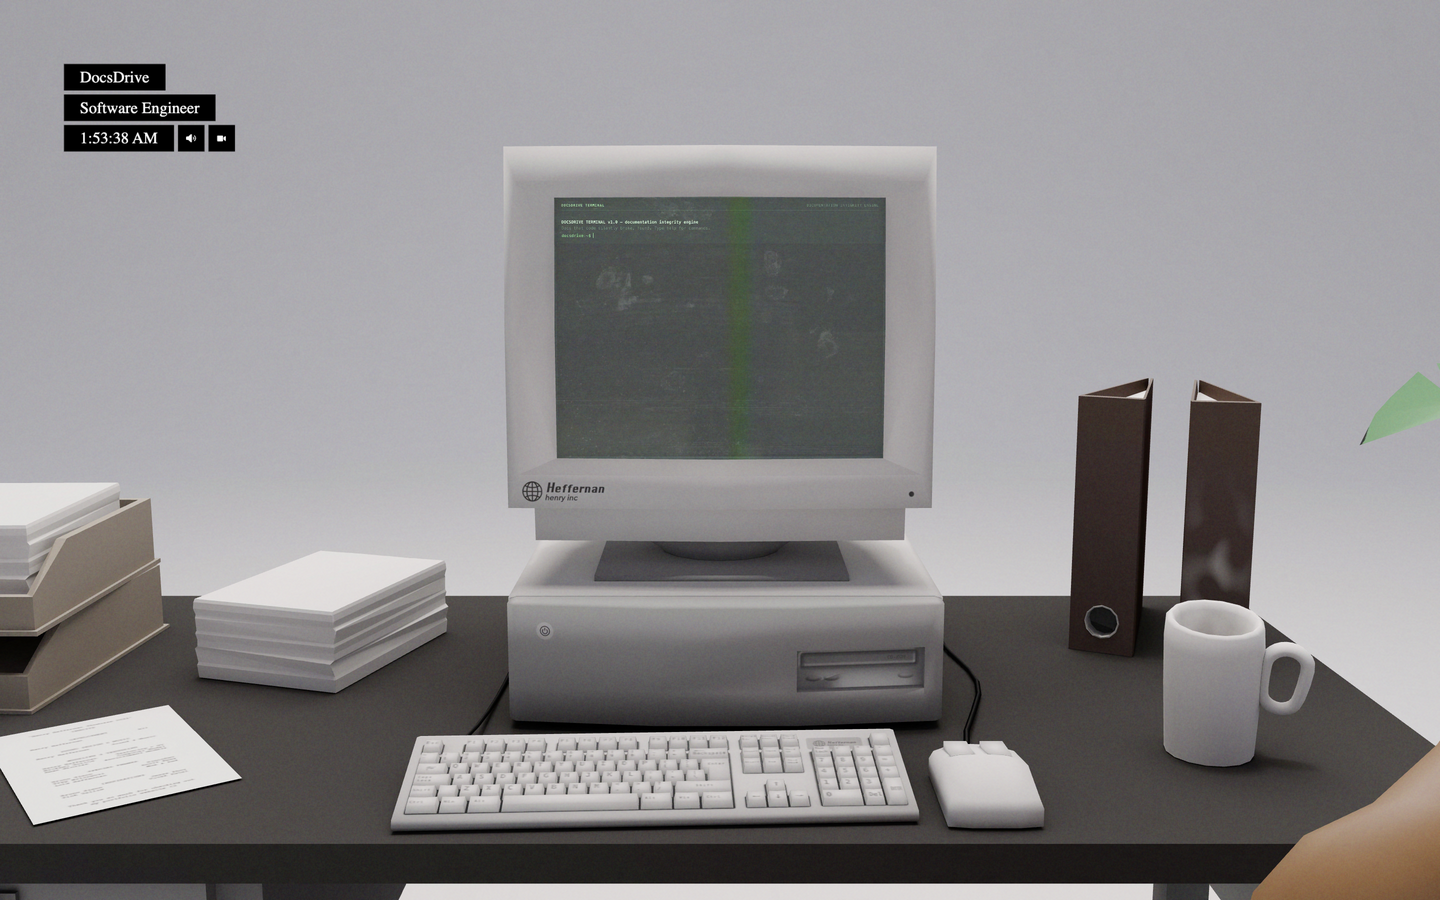
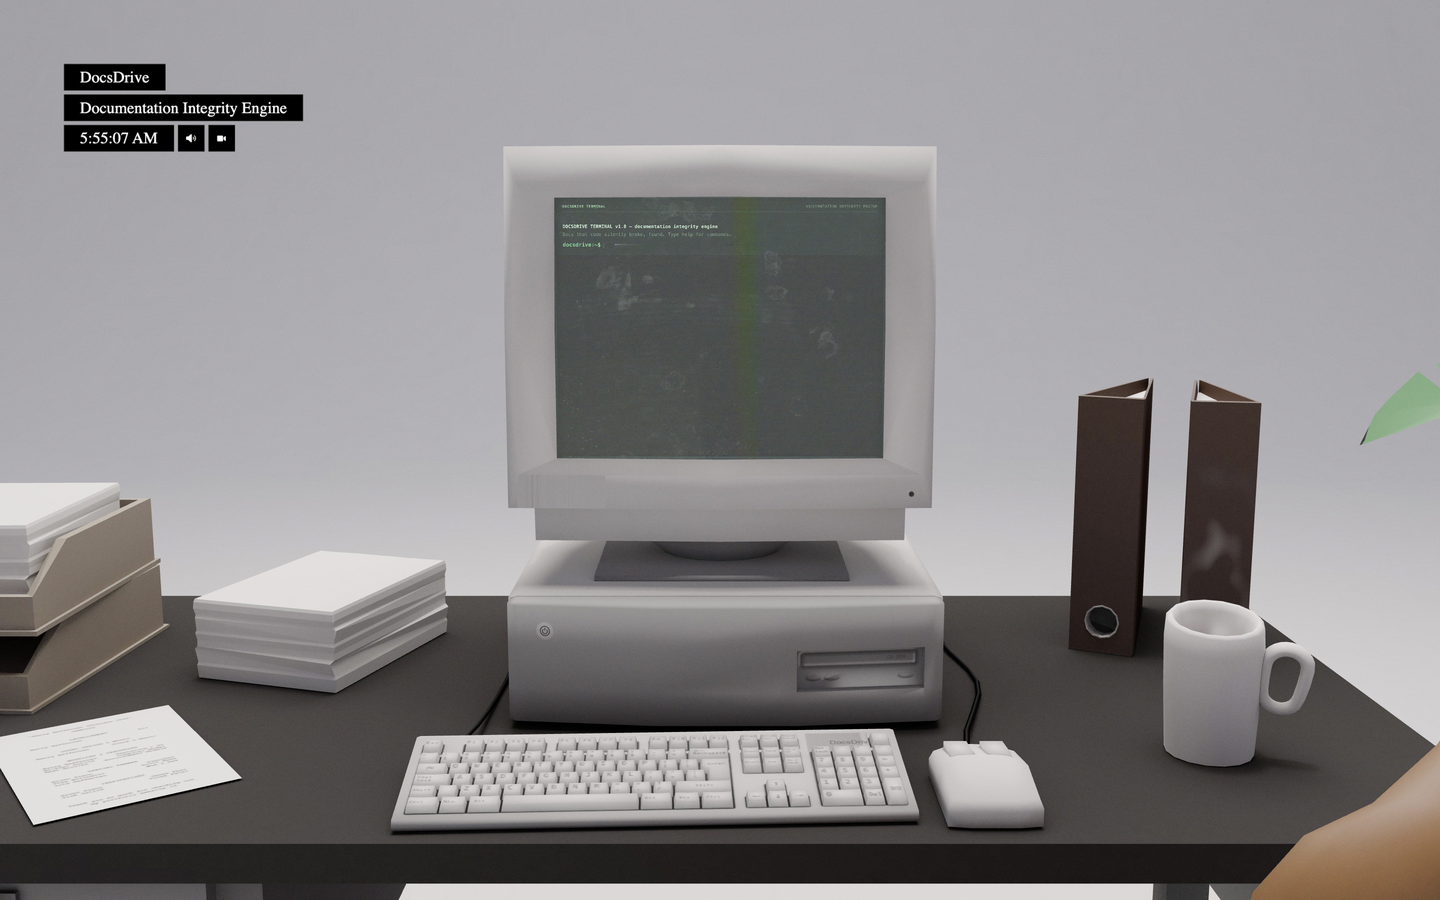
Increase terminal font size inside the CRT monitor
- Main terminal output: clamp(18px, 1.55vw, 20px)
- Prompt and input: clamp(19px, 1.6vw, 21px)
- Intro text: clamp(17px, 1.4vw, 18px) via tl-intro class
- Header/status labels: clamp(13px, 1.05vw, 15px)
- Line-height 1.5, 3px spacing between output lines
- Brighter phosphor greens for contrast, scanlines preserved
- Verified inside the CRT via camera fly-in and keyboard relay

diff --git a/app/terminal/terminal.css b/app/terminal/terminal.css
@@ -1,18 +1,21 @@
-/* DocsDrive Terminal — phosphor CRT aesthetic */
+/* DocsDrive Terminal — phosphor CRT aesthetic
+   Sized for the CRT's 1248×992 logical display area: large, readable
+   monospace text with generous line spacing. clamp() keeps every tier
+   within its target range across screen sizes. */
 
 .terminal-root {
     background: #0c1210;
-    color: #7ee787;
+    color: #8ce99a;
     font-family: ui-monospace, "SF Mono", "Cascadia Code", Menlo, Consolas,
         monospace;
-    font-size: 15px;
-    line-height: 1.45;
+    font-size: clamp(18px, 1.55vw, 20px);
+    line-height: 1.5;
     height: 100%;
     width: 100%;
     overflow: hidden;
     display: flex;
     flex-direction: column;
-    padding: 18px 22px;
+    padding: 22px 26px;
     box-sizing: border-box;
     -webkit-font-smoothing: antialiased;
 }
@@ -45,16 +48,26 @@
     scrollbar-color: #1d3a2a transparent;
 }
 
+/* breathing room between output lines; commands get extra separation */
+.terminal-output > div {
+    margin-bottom: 3px;
+}
+
+.terminal-output > div.tl-white {
+    margin-top: 4px;
+}
+
 .terminal-input-row {
     display: flex;
     align-items: baseline;
-    gap: 8px;
+    gap: 10px;
     flex-shrink: 0;
-    padding-top: 6px;
+    padding-top: 8px;
+    font-size: clamp(19px, 1.6vw, 21px);
 }
 
 .terminal-prompt {
-    color: #3fb950;
+    color: #4ade80;
     font-weight: 600;
     flex-shrink: 0;
 }
@@ -63,8 +76,8 @@
     background: transparent;
     border: none;
     outline: none;
-    color: #b6f0bc;
-    caret-color: #7ee787;
+    color: #c4f7c9;
+    caret-color: #8ce99a;
     font: inherit;
     flex: 1;
     min-width: 0;
@@ -72,52 +85,58 @@
 
 /* line colours */
 .tl-dim {
-    color: #3d6b4a;
+    color: #5a8a68;
 }
 .tl-green {
-    color: #7ee787;
+    color: #8ce99a;
 }
 .tl-bright {
-    color: #c9ffce;
+    color: #d3ffd8;
     font-weight: 600;
 }
 .tl-amber {
     color: #e3b341;
 }
 .tl-red {
-    color: #f85149;
+    color: #ff6b63;
 }
 .tl-white {
-    color: #cdd9e5;
+    color: #d7e2ec;
 }
 .tl-blue {
-    color: #79c0ff;
+    color: #8ec2ff;
 }
 
+/* terminal introductory text (greeting shown before the first command) */
+.tl-intro {
+    font-size: clamp(17px, 1.4vw, 18px);
+}
+
+/* header and status labels — smallest tier, still legible */
 .terminal-header {
     display: flex;
     justify-content: space-between;
     align-items: baseline;
-    color: #3d6b4a;
+    color: #5a8a68;
     border-bottom: 1px solid #163023;
-    padding-bottom: 8px;
-    margin-bottom: 10px;
+    padding-bottom: 9px;
+    margin-bottom: 12px;
     flex-shrink: 0;
-    font-size: 13px;
+    font-size: clamp(13px, 1.05vw, 15px);
     letter-spacing: 0.08em;
 }
 
 .terminal-header .terminal-brand {
-    color: #7ee787;
+    color: #8ce99a;
     font-weight: 700;
 }
 
 .terminal-backlink {
-    color: #3d6b4a;
+    color: #5a8a68;
     text-decoration: none;
 }
 .terminal-backlink:hover {
-    color: #7ee787;
+    color: #8ce99a;
 }
 
 /* BIOS boot */

diff --git a/app/terminal/Terminal.tsx b/app/terminal/Terminal.tsx
@@ -399,15 +399,15 @@ export default function Terminal({ embed }: { embed: boolean }) {
 
     const greeting = useMemo(
         () => [
-            ['', ''] as [string, LineClass?],
+            ['', 'tl-intro'] as [string, string?],
             [
                 'DOCSDRIVE TERMINAL v1.0 — documentation integrity engine',
-                'tl-bright',
-            ] as [string, LineClass?],
+                'tl-bright tl-intro',
+            ] as [string, string?],
             [
                 'Docs that code silently broke, found. Type help for commands.',
-                'tl-dim',
-            ] as [string, LineClass?],
+                'tl-dim tl-intro',
+            ] as [string, string?],
         ],
         []
     );
